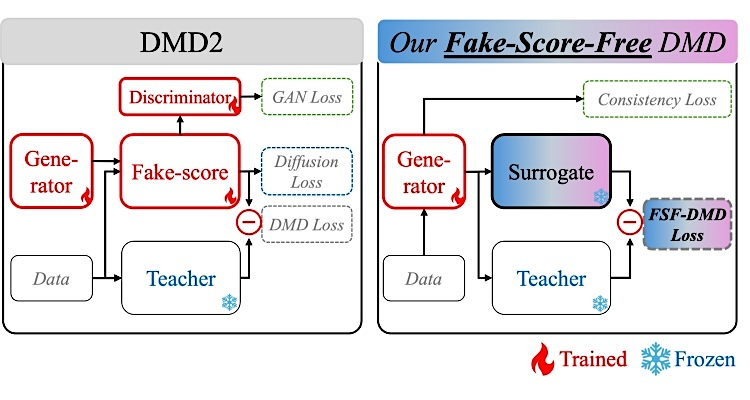
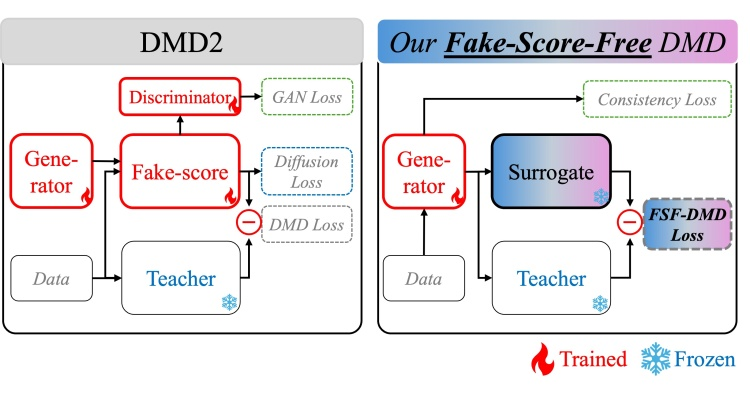
wacv 2027 papers

diff --git a/publications.html b/publications.html
@@ -60,6 +60,74 @@
 <div class="container mt-4">
 <div class="row">
 	<div class="col-lg-12 text-start">
+		<h2>2027</h2>
+	</div>
+</div>
+</div>
+
+<div class="container">
+	<div class="row gx-5 gy-4">
+		<div class="col-lg-4 text-center" id="Kim_DistractorAware_WACV_2027">
+			<img src="publications/data/26_wacv1.jpg" class="img-fluid rounded float-center img-thumbnail shadow mb-3">
+			<h4>Distractor-Aware COLMAP-Free 3D Gaussian Splatting</h4>
+			<p class="text-muted">
+				Namtae Kim, Haebeom Jung, and <b>Jaesik Park</b>.
+				<em>Winter Conf. on Applications of Computer Vision (<b>WACV</b>), 2027</em>
+			</p>
+			<p>
+				<a class="btn btn-outline-secondary btn-sm" role="button" data-bs-toggle="collapse" data-bs-target="#Kim_DistractorAware_WACV_2027_bibtex_button" aria-expanded="false" aria-controls="Kim_DistractorAware_WACV_2027_bibtex_button">BibTeX</a>
+			</p>
+			<div class="collapse" id="Kim_DistractorAware_WACV_2027_bibtex_button">
+				<div class="card">
+					<div class="card-body">
+						<p class="card-text text-start fw-lighter">
+							@inproceedings{Kim_DistractorAware_WACV_2027,<br>
+							Title={Distractor-Aware COLMAP-Free 3D Gaussian Splatting},<br>
+							Author={Namtae Kim and Haebeom Jung and Jaesik Park},<br>
+							Booktitle={Proceedings of the Winter Conf. on Applications of Computer Vision (WACV)},<br>
+							Year={2027}<br>
+							}
+						</p>
+					</div>
+				</div>
+			</div>
+		</div>
+		<div class="col-lg-4 text-center" id="Cha_RelationCentric_WACV_2027">
+			<img src="publications/data/26_arxiv8.jpg" class="img-fluid rounded float-center img-thumbnail shadow mb-3">
+			<h4>Relation-Centric Open-Vocabulary 3D Gaussian Segmentation</h4>
+			<p class="text-muted">
+				Eunsung Cha, Hyunjoon Lee, and <b>Jaesik Park</b>.
+				<em>Winter Conf. on Applications of Computer Vision (<b>WACV</b>), 2027</em>
+			</p>
+			<p>
+				<a href="http://arxiv.org/abs/2607.01140" target="_blank" class="btn btn-outline-secondary btn-sm" role="button"> Paper</a>
+				<a class="btn btn-outline-secondary btn-sm" role="button" data-bs-toggle="collapse" data-bs-target="#Cha_RelationCentric_WACV_2027_bibtex_button" aria-expanded="false" aria-controls="Cha_RelationCentric_WACV_2027_bibtex_button">BibTeX</a>
+			</p>
+			<div class="collapse" id="Cha_RelationCentric_WACV_2027_bibtex_button">
+				<div class="card">
+					<div class="card-body">
+						<p class="card-text text-start fw-lighter">
+							@inproceedings{Cha_RelationCentric_WACV_2027,<br>
+							Title={Relation-Centric Open-Vocabulary 3D Gaussian Segmentation},<br>
+							Author={Eunsung Cha and Hyunjoon Lee and Jaesik Park},<br>
+							Booktitle={Proceedings of the Winter Conf. on Applications of Computer Vision (WACV)},<br>
+							Year={2027}<br>
+							}
+						</p>
+					</div>
+				</div>
+			</div>
+		</div>
+	</div>
+</div>
+
+<div class="container mt-4">
+	<hr class="py-1">
+</div>
+
+<div class="container mt-4">
+<div class="row">
+	<div class="col-lg-12 text-start">
 		<h2>2026</h2>
 	</div>
 </div>
